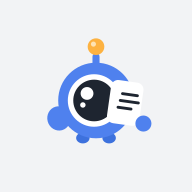
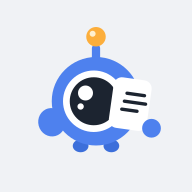
feat(pwa): update PWA assets and manifest configuration
Add new branded PWA icons, update manifest metadata, and implement cache-busting versioning for static assets and the service worker to ensure proper updates.

Changed region(s): [[0.1875, 0.125, 0.8438, 0.8125]]

diff --git a/vite.config.ts b/vite.config.ts
@@ -14,6 +14,10 @@ export default defineConfig(() => {
         registerType: 'autoUpdate',
         includeAssets: [
           'quilo-logo.svg',
+          'quilo-apple-icon.png',
+          'quilo-app-icon-192.png',
+          'quilo-app-icon-512.png',
+          'quilo-app-icon-maskable.png',
           'apple-touch-icon.png',
           'pwa-192x192.png',
           'pwa-512x512.png',
@@ -21,33 +25,51 @@ export default defineConfig(() => {
           'manifest.json',
         ],
         manifest: {
-          id: '/',
+          id: '/?v=2',
           name: 'Quilo — Fiches de Révision',
           short_name: 'Quilo',
           description:
             'Transforme tes photos de cours en fiches de révision claires, visuelles et compactes pour collégiens et lycéens.',
           theme_color: '#5B8DEF',
-          background_color: '#F2F3F5',
+          background_color: '#F0F2F5',
           display: 'standalone',
           orientation: 'portrait-primary',
-          start_url: '/',
+          start_url: '/?v=2',
           scope: '/',
           lang: 'fr-FR',
           icons: [
             {
-              src: '/pwa-192x192.png',
+              src: '/quilo-app-icon-192.png?v=2',
               sizes: '192x192',
               type: 'image/png',
               purpose: 'any',
             },
             {
-              src: '/pwa-512x512.png',
+              src: '/quilo-app-icon-512.png?v=2',
               sizes: '512x512',
               type: 'image/png',
               purpose: 'any',
             },
             {
-              src: '/pwa-maskable-512x512.png',
+              src: '/quilo-app-icon-maskable.png?v=2',
+              sizes: '512x512',
+              type: 'image/png',
+              purpose: 'maskable',
+            },
+            {
+              src: '/pwa-192x192.png?v=2',
+              sizes: '192x192',
+              type: 'image/png',
+              purpose: 'any',
+            },
+            {
+              src: '/pwa-512x512.png?v=2',
+              sizes: '512x512',
+              type: 'image/png',
+              purpose: 'any',
+            },
+            {
+              src: '/pwa-maskable-512x512.png?v=2',
               sizes: '512x512',
               type: 'image/png',
               purpose: 'maskable',

diff --git a/index.html b/index.html
@@ -23,10 +23,12 @@
     <meta name="application-name" content="Quilo" />
     
     <!-- PWA Icons & Manifest Links -->
-    <link rel="icon" type="image/svg+xml" href="/quilo-logo.svg" />
-    <link rel="icon" type="image/png" sizes="192x192" href="/pwa-192x192.png" />
-    <link rel="apple-touch-icon" sizes="180x180" href="/apple-touch-icon.png" />
-    <link rel="manifest" href="/manifest.json" />
+    <link rel="icon" type="image/svg+xml" href="/quilo-logo.svg?v=2" />
+    <link rel="icon" type="image/png" sizes="32x32" href="/favicon-32x32.png?v=2" />
+    <link rel="icon" type="image/png" sizes="192x192" href="/quilo-app-icon-192.png?v=2" />
+    <link rel="icon" type="image/png" sizes="512x512" href="/quilo-app-icon-512.png?v=2" />
+    <link rel="apple-touch-icon" sizes="180x180" href="/quilo-apple-icon.png?v=2" />
+    <link rel="manifest" href="/manifest.json?v=2" />
     
     <!-- Typography -->
     <link rel="preconnect" href="https://fonts.googleapis.com">
